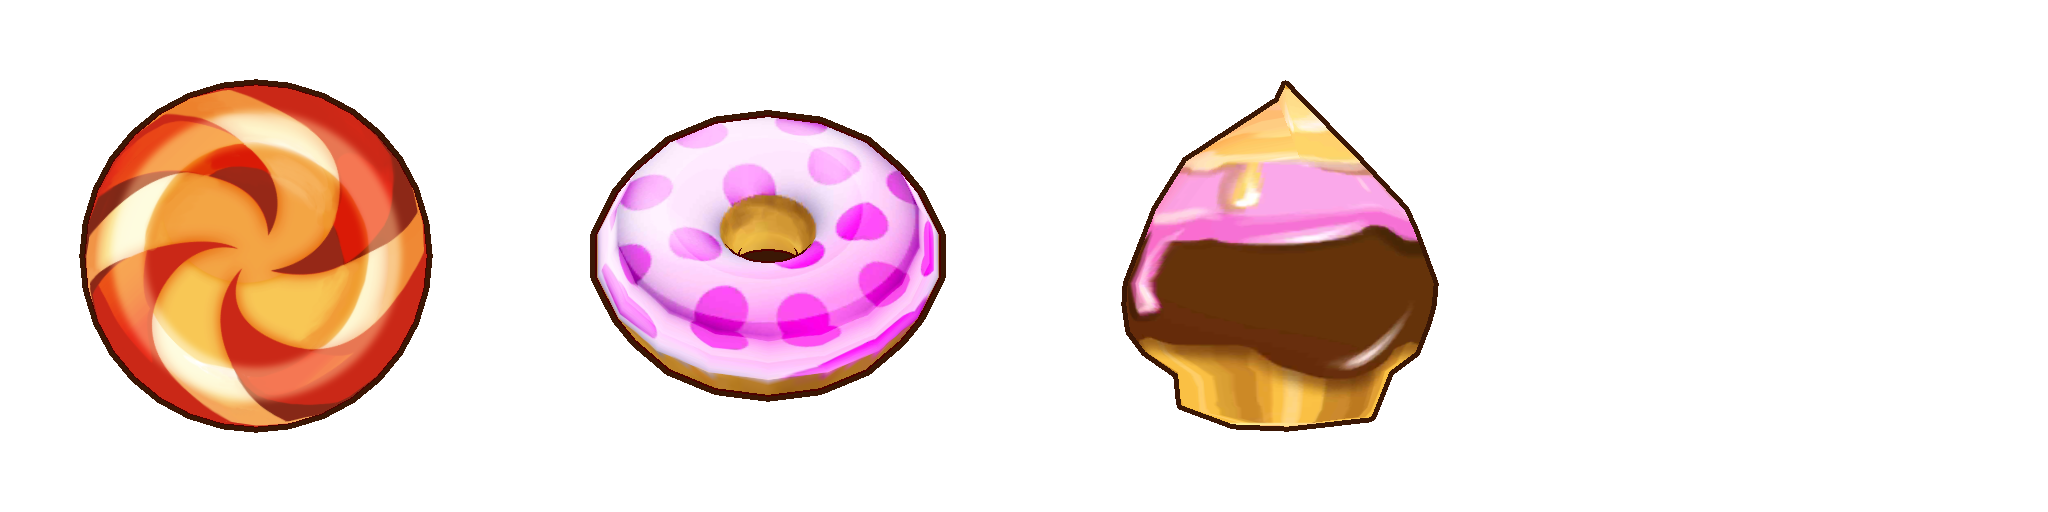
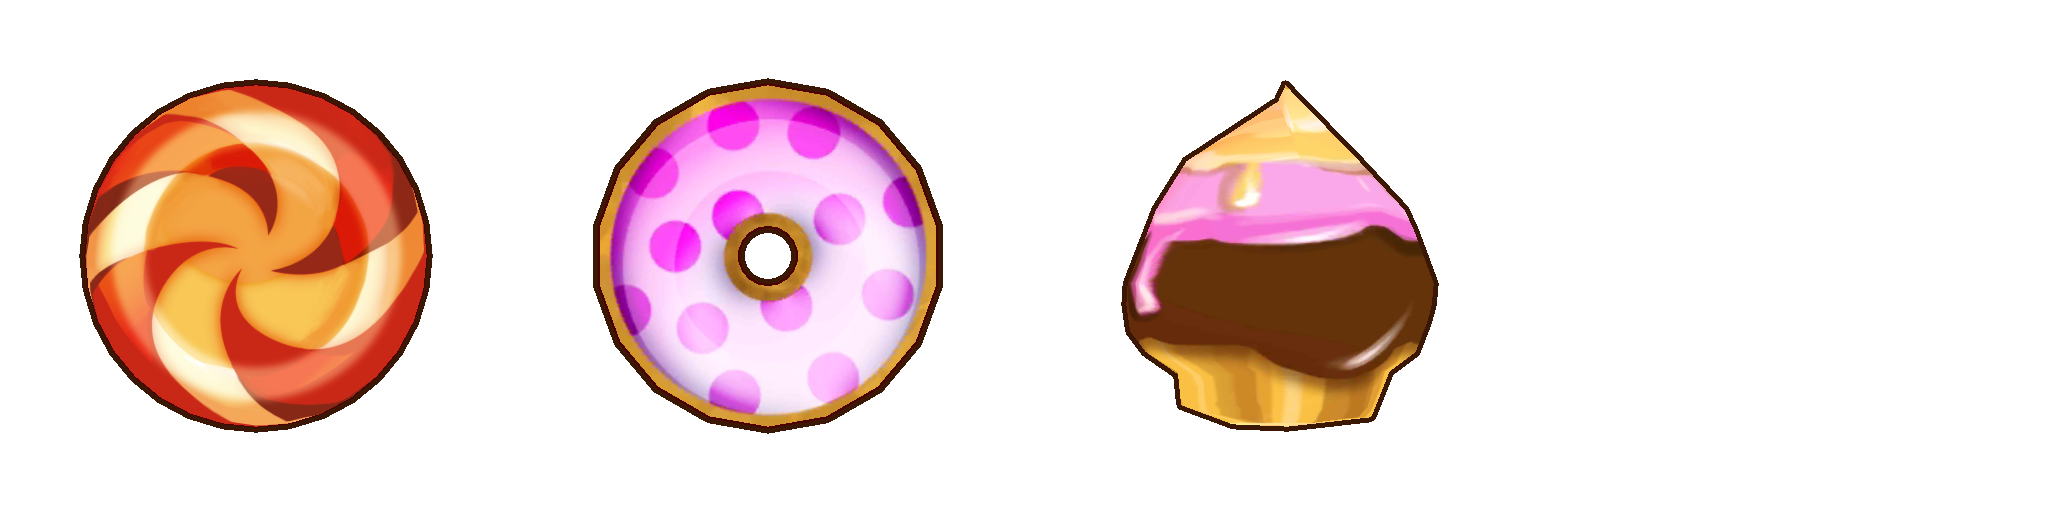
update donut model

Changed region(s): [[0.2812, 0.1562, 0.4688, 0.8438]]

diff --git a/Assets/Editor/CandySkinAssetsBuilder.cs b/Assets/Editor/CandySkinAssetsBuilder.cs
@@ -11,6 +11,7 @@ namespace CandyFlickEditor
 {
     public static class CandySkinAssetsBuilder
     {
+        // Models/bagel.fbx is CtRDonutFIXED.fbx, retained at the original path/GUID.
         const string Folder="Assets/Resources/CandySkins";
         static void Bake(GameObject obj,string source,Scene scene,StringBuilder report)
         {
@@ -30,8 +31,10 @@ namespace CandyFlickEditor
             float size=Mathf.Max(bounds.size.x,bounds.size.y,bounds.size.z);
             for(int i=0;i<vertices.Count;i++)vertices[i]=(vertices[i]-bounds.center)/size;
             string name=source=="bagel"?"Donut":"Cupcake",meshPath=Folder+"/"+name+".asset",materialPath=Folder+"/"+name+".mat";
-            var baked=new Mesh{name=name};baked.SetVertices(vertices);baked.SetNormals(normals);baked.SetUVs(0,uv);baked.SetTriangles(indices,0);baked.RecalculateBounds();
-            var existing=AssetDatabase.LoadAssetAtPath<Mesh>(meshPath);if(existing){EditorUtility.CopySerialized(baked,existing);UnityEngine.Object.DestroyImmediate(baked);baked=existing;}else AssetDatabase.CreateAsset(baked,meshPath);
+            var baked=AssetDatabase.LoadAssetAtPath<Mesh>(meshPath);bool create=!baked;
+            if(create)baked=new Mesh{name=name};else baked.Clear();
+            baked.SetVertices(vertices);baked.SetNormals(normals);baked.SetUVs(0,uv);baked.SetTriangles(indices,0);baked.RecalculateBounds();
+            if(create)AssetDatabase.CreateAsset(baked,meshPath);else EditorUtility.SetDirty(baked);
             var native=Resources.Load<GameObject>("Original26/Geometry").transform.Find("Candies/Candy1/zCandy").GetComponent<Renderer>().sharedMaterial;
             var material=AssetDatabase.LoadAssetAtPath<Material>(materialPath);if(!material){material=new Material(native);AssetDatabase.CreateAsset(material,materialPath);}else material.CopyPropertiesFromMaterial(native);
             material.shader=source=="cupcake"?Shader.Find("Toon/Basic"):native.shader;
@@ -49,6 +52,7 @@ namespace CandyFlickEditor
             {
                 var importer=(ModelImporter)AssetImporter.GetAtPath(Folder+"/"+file);
                 importer.importAnimation=false;importer.isReadable=true;importer.addCollider=false;
+                importer.importNormals=ModelImporterNormals.Import;
                 importer.materialImportMode=ModelImporterMaterialImportMode.None;importer.SaveAndReimport();
             }
             foreach(string file in new[]{"Models/bagel.png","Models/cupcake.png"})

diff --git a/Assets/Editor/CandyPortraitsBuilder.cs b/Assets/Editor/CandyPortraitsBuilder.cs
@@ -42,9 +42,9 @@ namespace CandyFlickEditor
                 AssetDatabase.SaveAssets();
                 File.WriteAllText("Documentation/candy-portraits.json",JsonUtility.ToJson(new Evidence{
                     utc=DateTime.UtcNow.ToString("o"),width=atlas.width,height=atlas.height,cell=Cell,
-                    skins=Names,views=new[]{"Top (+Y)","45 degrees above front (+Y/+Z)","Front (+Z)"},
+                    skins=Names,views=new[]{"Top (+Y)","Top (+Y)","Front (+Z)"},
                     method="Orthographic Unity camera renders with preview shader outlines disabled; transparent backgrounds; models fill about two thirds of each image; silhouette outlines are added to the finished images."},true));
-                Debug.Log("CANDY_PORTRAITS_READY: Candy from above; Donut at 45 degrees; Cupcake from the front. Outlines are baked into the images.");
+                Debug.Log("CANDY_PORTRAITS_READY: Candy and Donut from above; Cupcake from the front. Outlines are baked into the images.");
             }
             finally{UnityEngine.Object.DestroyImmediate(atlas);}
         }
@@ -85,8 +85,8 @@ namespace CandyFlickEditor
                         copy.SetShaderPassEnabled("OUTLINE",false);previewMaterials.Add(copy);return copy;
                     }).ToArray();
                 var camera=preview.camera;camera.orthographic=true;camera.nearClipPlane=.01f;camera.farClipPlane=10;
-                Vector3 direction=skin==0?Vector3.up:skin==1?new Vector3(0,1,1).normalized:Vector3.forward;
-                Vector3 up=skin==0?Vector3.forward:Vector3.up;
+                Vector3 direction=skin==2?Vector3.forward:Vector3.up;
+                Vector3 up=skin==2?Vector3.up:Vector3.forward;
                 camera.transform.SetPositionAndRotation(direction*3,Quaternion.LookRotation(-direction,up));
                 var renderers=model.GetComponentsInChildren<Renderer>();Bounds bounds=renderers[0].bounds;
                 foreach(var renderer in renderers)bounds.Encapsulate(renderer.bounds);
